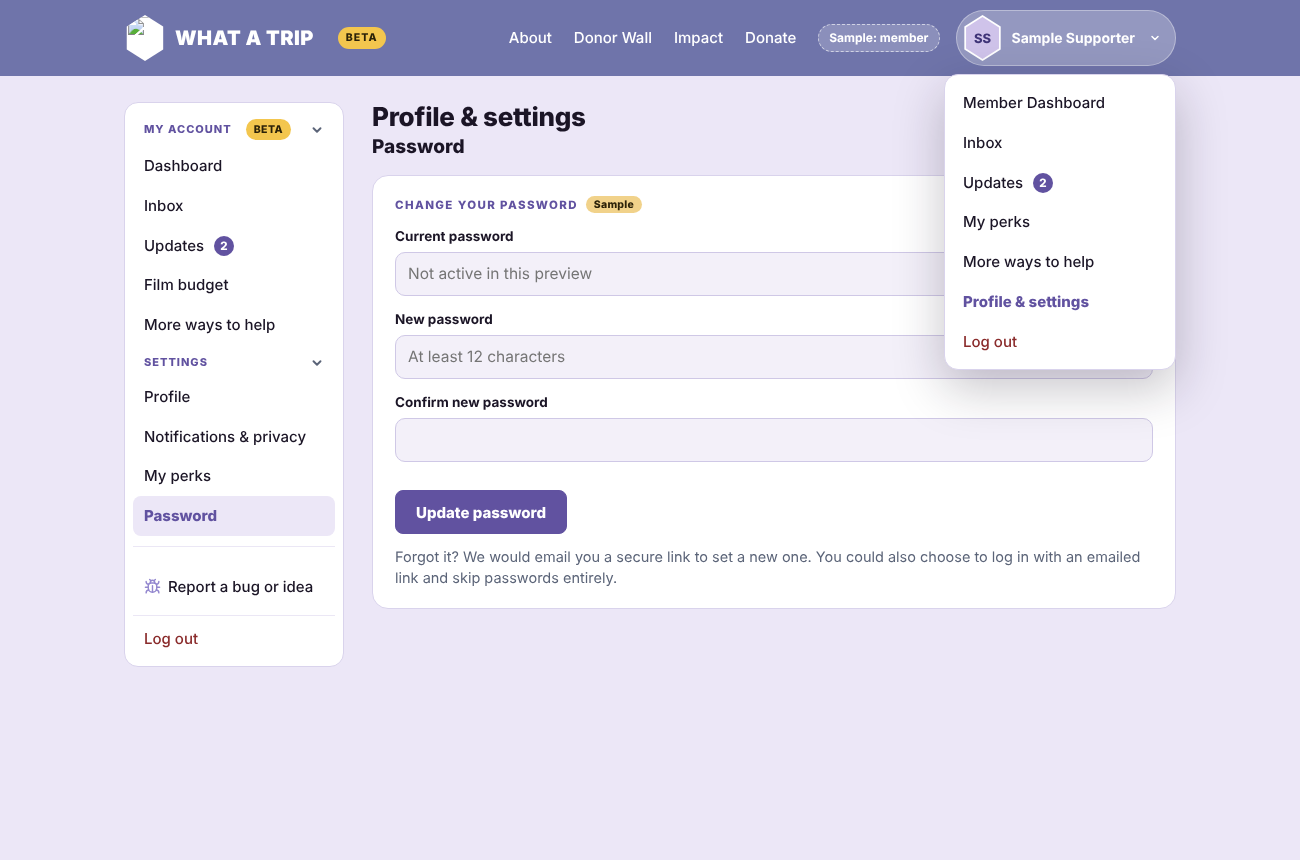
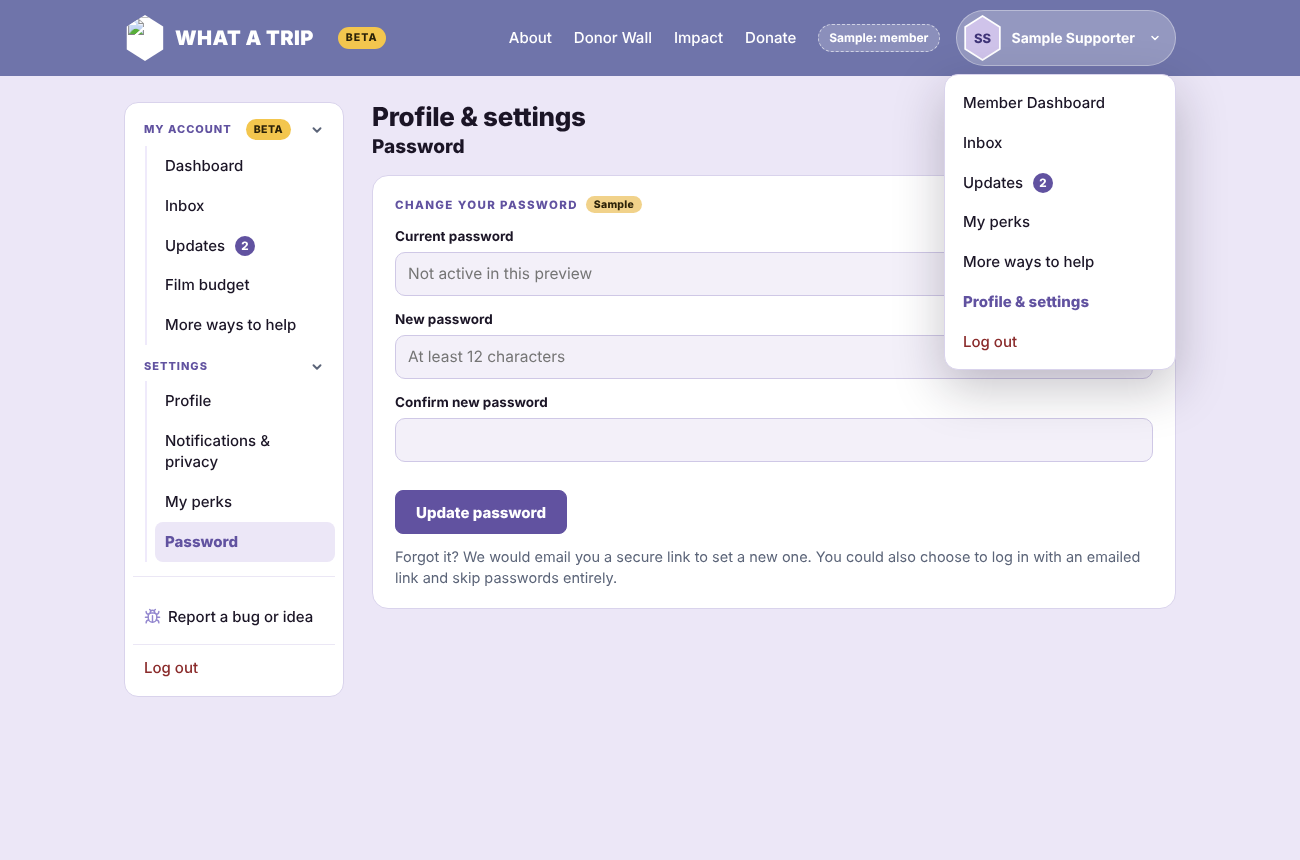
Inbox: Received and Sent tabs; side menu items indented under their section
Claude-Session: https://claude.ai/code/session_01B4g6Jr5SafogaXZoJmXf7b

Changed region(s): [[0.0923, 0.2721, 0.2462, 0.6349], [0.0923, 0.6651, 0.2462, 0.786], [0.1231, 0.1814, 0.1846, 0.2419]]

diff --git a/home-page/home-block.html b/home-page/home-block.html
@@ -1881,6 +1881,11 @@ html.wath-framed :is(#wath,#wath-top) .pvb{display:none}
 .mov .mfbar>div>span{font-size:12px;font-weight:800;letter-spacing:.06em;text-transform:uppercase;color:#8a849a;min-width:92px}
 .mov .mfbar select{font:inherit;font-size:13.5px;padding:6px 9px;border:1px solid #d9d1ee;border-radius:9px;background:#fff}
 .mov .mchip.sm{padding:5px 11px;font-size:13px}
+@media(min-width:801px){#wath-top .msgb{margin:0 0 4px 12px;padding-left:8px;border-left:2px solid #efeafb}#wath-top .msgb .msn{padding-left:10px}}
+.mov .inbtabs{display:flex;gap:6px;margin:0 0 10px}
+.mov .inbtabs button{display:inline-flex!important;align-items:center;gap:7px;border:1px solid #ddd5f0!important;background:#fff;border-radius:999px!important;padding:7px 16px!important;font:inherit;font-size:14.5px;font-weight:700;color:#3a3245;cursor:pointer}
+.mov .inbtabs button.on{background:#6152a0!important;border-color:#6152a0!important;color:#fff!important}
+.mov .inbtabs .inbn{font-size:12px;font-weight:700;opacity:.7}
 .mov .adots{position:relative;display:inline-flex}
 .mov .amng button.adotb{width:36px!important;height:36px!important;min-width:36px;box-sizing:border-box;flex:none;border-radius:50%;border:1px solid rgba(27,21,38,.16);background:#fff;color:#1b1526;display:inline-flex;align-items:center;justify-content:center;cursor:pointer;padding:0}
 .mov .amng button.adotb:hover{background:#f1eef8}
@@ -2940,7 +2945,7 @@ function inbWelcome(){var t=memTotal()+(TG&&TG.cl?TG.amt:0),lv=levelFor(t),ch=TG
 function inbCan(){var t=memTotal()+(TG&&TG.cl?TG.amt:0);return t>=25000}
 function memInbox(){inbWelcome();var op=MEM.inbOpen,cw=MEM.inbNew;
   var comp=cw?'<div class="mcard inbc"><span class="mtag">NEW MESSAGE</span><label class="mf"><span>To</span><select data-inbto><option value="team">The What a Trip team</option>'+(inbCan()?'<option value="dir">Nirvan Mullick, Director</option>':'')+'</select></label>'+(inbCan()?'':'<p class="msub" style="margin:-4px 0 10px">From the Made Possible By level ($25K+) you can also write to the director.</p>')+'<label class="mf"><span>Subject</span><input data-inbsub maxlength="120" autocomplete="off"></label><label class="mf"><span>Message</span><textarea data-inbbody rows="5" maxlength="4000"></textarea></label><div class="pfbar"><button class="btn" data-m="inbcancel">Cancel</button><button class="btn pri" data-m="inbsend">Send</button></div></div>':'';
-  return '<div class="mrow" style="margin-bottom:12px"><h2 style="margin:0">Inbox</h2><button class="btn pri" data-m="inbnew">Write to us</button></div>'+comp+'<div class="mcard inbl">'+(INB.length?INB.map(function(m){var o=op===m.id;return '<div class="inbm'+(m.r||m.out?'':' un')+(o?' open':'')+'"><button class="inbh" data-m="inbopen" data-t="'+esc(m.id)+'"><span class="inbd"></span><span class="inbw"><b>'+esc(m.s)+'</b><span>'+(m.out?'To '+esc(m.to):m.f)+' · '+esc(m.d)+'</span></span></button>'+(o?'<div class="inbb">'+m.b+'</div>':'')+'</div>'}).join(''):'<p class="msub">No messages yet.</p>')+'</div><p class="msub">We also email you when a new message arrives, so you know to log in and read it. <span class="asmp">Sample</span></p>'}
+  return '<div class="mrow" style="margin-bottom:12px"><h2 style="margin:0">Inbox</h2><button class="btn pri" data-m="inbnew">Write to us</button></div>'+comp+(function(){var f=MEM.inbF||'in',ni=INB.filter(function(m){return !m.out}).length,no=INB.filter(function(m){return m.out}).length,un=INB.filter(function(m){return !m.out&&!m.r}).length;return '<div class="inbtabs" role="tablist" aria-label="Messages"><button role="tab" aria-selected="'+(f==='in')+'" class="'+(f==='in'?'on':'')+'" data-m="inbf" data-t="in">Received'+(un?' <span class="mbdg">'+un+'</span>':' <span class="inbn">'+ni+'</span>')+'</button><button role="tab" aria-selected="'+(f==='out')+'" class="'+(f==='out'?'on':'')+'" data-m="inbf" data-t="out">Sent <span class="inbn">'+no+'</span></button></div>'})()+'<div class="mcard inbl">'+((function(){var f=MEM.inbF||'in';return INB.filter(function(m){return f==='out'?!!m.out:!m.out})})()).map(function(m){var o=op===m.id;return '<div class="inbm'+(m.r||m.out?'':' un')+(o?' open':'')+'"><button class="inbh" data-m="inbopen" data-t="'+esc(m.id)+'"><span class="inbd"></span><span class="inbw"><b>'+esc(m.s)+'</b><span>'+(m.out?'To '+esc(m.to):m.f)+' · '+esc(m.d)+'</span></span></button>'+(o?'<div class="inbb">'+m.b+'</div>':'')+'</div>'}).join('')+(((function(){var f=MEM.inbF||'in';return INB.filter(function(m){return f==='out'?!!m.out:!m.out})})()).length?'':'<p class="msub">'+((MEM.inbF||'in')==='out'?'Messages you send to the team show here.':'No messages yet.')+'</p>')+'</div><p class="msub">We also email you when a new message arrives, so you know to log in and read it. <span class="asmp">Sample</span></p>'}
 function memTotal(){return MEM.me.gifts.reduce(function(t,g){return t+g[1]},0)}
 function memNext(){var t=memTotal(),n=null;LEVELS.forEach(function(l){if(!n&&l.min>t)n=l});return n}
 function closeMember(){var o=T.querySelector('.mov');if(o){o.parentNode.removeChild(o);document.documentElement.classList.remove('wath-noscroll')}}
@@ -3158,9 +3163,9 @@ function renderMember(){setTimeout(mtopAlign,0);var o=T.querySelector('.mov');if
   var nv=o.querySelector('.msnav'),non=nv&&nv.querySelector('.msn.on');if(non&&nv.scrollWidth>nv.clientWidth+2)nv.scrollLeft=Math.max(0,non.offsetLeft-nv.offsetLeft-14);
   if(keep){var s2=o.querySelector('.mbody');if(s2)s2.scrollTop=y;if(vals)[].forEach.call(o.querySelectorAll(sel),function(i,n){if(n<vals.length&&!i.disabled)i.value=vals[n]})}}
 function memSecGo(){var o=T.querySelector('.mov');if(!o)return;var sc=o.querySelector('.mbody'),el=o.querySelector('.msec[data-sec="'+MEM.tab+'"]');if(!sc)return;sc.scrollTop=(el&&el.previousElementSibling)?Math.max(0,el.offsetTop-sc.offsetTop-10):0}
-function memClick(e){var mc=e.target.closest&&e.target.closest('[data-mscl]');if(mc){var id=mc.getAttribute('data-mscl'),CL=MSCL();CL[id]=!CL[id];try{localStorage.setItem('wath:mscl',JSON.stringify(CL))}catch(x){}mc.setAttribute('aria-expanded',!CL[id]);var gb=mc.parentNode.querySelector('.msgb[data-g="'+id+'"]');if(gb)gb.classList.toggle('cl',!!CL[id]);return}var mw=T.querySelector('.mov .mmw');if(mw&&!(e.target.closest&&e.target.closest('[data-m=menu]'))){mw.classList.remove('open')}var ta=e.target.closest&&e.target.closest('[data-a]');if(ta){admClick(ta);return}var t=e.target.closest&&e.target.closest('[data-m]');if(!t)return;var a=t.getAttribute('data-m'),v=t.getAttribute('data-t');if(accClick(a,t))return;if(a==='monthgo'){giveMonthly(+v||MEM.monthly||25);return}
+function memClick(e){var mc=e.target.closest&&e.target.closest('[data-mscl]');if(mc){var id=mc.getAttribute('data-mscl'),CL=MSCL();CL[id]=!CL[id];try{localStorage.setItem('wath:mscl',JSON.stringify(CL))}catch(x){}mc.setAttribute('aria-expanded',!CL[id]);var gb=mc.parentNode.querySelector('.msgb[data-g="'+id+'"]');if(gb)gb.classList.toggle('cl',!!CL[id]);return}var mw=T.querySelector('.mov .mmw');if(mw&&!(e.target.closest&&e.target.closest('[data-m=menu]'))){mw.classList.remove('open')}var ta=e.target.closest&&e.target.closest('[data-a]');if(ta){admClick(ta);return}var t=e.target.closest&&e.target.closest('[data-m]');if(!t)return;var a=t.getAttribute('data-m'),v=t.getAttribute('data-t');if(accClick(a,t))return;if(a==='inbf'){MEM.inbF=v;MEM.inbOpen='';renderMember();return}if(a==='monthgo'){giveMonthly(+v||MEM.monthly||25);return}
   if(a==='close')closeMember();else if(a==='role'){MEM.role=MEM.role==='admin'?'member':'admin';if(MEM.role!=='admin')ADM.on=false;renderMember();try{socKeep();renderUpdates();renderLevels()}catch(x){}toast(MEM.role==='admin'?'Sample: now previewing an admin login. Only the team sees Site Management.':'Sample: now previewing a member login. Members never see Site Management.')}else if(a==='login'){memSetIn(true);MEM.ob=memSeen()?-1:0;renderMember()}else if(a==='menu'){if(!(e.target.closest&&e.target.closest('.marr'))){ADM.on=false;MEM.tab='home';renderMember();memSecGo();return}var w=t.parentNode,op=HOVERS?true:!w.classList.contains('open');w.classList.toggle('open',op);t.setAttribute('aria-expanded',op?'true':'false')}else if(a==='tab'){ADM.on=false;MEM.tab=v;renderMember();memSecGo()}else if(a==='toast')toast(v);
-  else if(a==='inbopen'){MEM.inbOpen=MEM.inbOpen===v?null:v;INB.forEach(function(m){if(m.id===v)m.r=1});inbSave();renderMember();try{memChip()}catch(x){}}else if(a==='inbnew'){MEM.inbNew=1;renderMember()}else if(a==='inbcancel'){MEM.inbNew=0;renderMember()}else if(a==='inbsend'){var ov=T.querySelector('.mov'),su=(ov.querySelector('[data-inbsub]').value||'').trim(),bo=(ov.querySelector('[data-inbbody]').value||'').trim(),to=ov.querySelector('[data-inbto]').value;if(!bo){toast('Please write a message.');return}INB.unshift({id:'o'+Date.now(),out:1,to:to==='dir'?'Nirvan Mullick, Director':'The What a Trip team',s:su||'(No subject)',b:'<p>'+esc(bo).replace(/\n/g,'<br>')+'</p>',d:inbNow(),r:1});inbSave();MEM.inbNew=0;renderMember();toast('Sent. We’ll reply here and by email.'+(LIVE?'':' (Sample: saved on this computer only.)'))}
+  else if(a==='inbopen'){MEM.inbOpen=MEM.inbOpen===v?null:v;INB.forEach(function(m){if(m.id===v)m.r=1});inbSave();renderMember();try{memChip()}catch(x){}}else if(a==='inbnew'){MEM.inbNew=1;renderMember()}else if(a==='inbcancel'){MEM.inbNew=0;renderMember()}else if(a==='inbsend'){var ov=T.querySelector('.mov'),su=(ov.querySelector('[data-inbsub]').value||'').trim(),bo=(ov.querySelector('[data-inbbody]').value||'').trim(),to=ov.querySelector('[data-inbto]').value;if(!bo){toast('Please write a message.');return}INB.unshift({id:'o'+Date.now(),out:1,to:to==='dir'?'Nirvan Mullick, Director':'The What a Trip team',s:su||'(No subject)',b:'<p>'+esc(bo).replace(/\n/g,'<br>')+'</p>',d:inbNow(),r:1});inbSave();MEM.inbNew=0;MEM.inbF='out';renderMember();toast('Sent. We’ll reply here and by email.'+(LIVE?'':' (Sample: saved on this computer only.)'))}
   else if(a==='smsend'){var o2=T.querySelector('.mov'),to2=o2.querySelector('[data-smto]').value,sb=(o2.querySelector('[data-smsub]').value||'').trim(),bd=(o2.querySelector('[data-smbody]').value||'').trim();if(!bd){toast('Please write a message.');return}if(/\(you\)$/.test(to2)){inbAdd(null,sb||'A message from the team','<p>'+esc(bd).replace(/\n/g,'<br>')+'</p>');toast('Sent to your Inbox. (Sample.)')}else toast('Sample only: this would go to '+to2+'’s Inbox and email.');o2.querySelector('[data-smbody]').value='';o2.querySelector('[data-smsub]').value=''}
   else if(a==='pfsv'){PF.sv=v;renderMember()}
   else if(a==='pfint'){var ik=v,is=PF.st[ik]=PF.st[ik]||{f:{}};is.int=!is.int;is.st=is.int?'sent':'todo';is.at=new Date().toLocaleDateString('en-US',{month:'short',day:'numeric'});PF.open=ik;pfSave();renderMember();toast(is.int?'Thanks! We’ll contact you about next steps.'+(LIVE?'':' (Sample: saved on this computer only.)'):'Unchecked.')}

diff --git a/home-page/src/app.js b/home-page/src/app.js
@@ -988,7 +988,7 @@ function inbWelcome(){var t=memTotal()+(TG&&TG.cl?TG.amt:0),lv=levelFor(t),ch=TG
 function inbCan(){var t=memTotal()+(TG&&TG.cl?TG.amt:0);return t>=25000}
 function memInbox(){inbWelcome();var op=MEM.inbOpen,cw=MEM.inbNew;
   var comp=cw?'<div class="mcard inbc"><span class="mtag">NEW MESSAGE</span><label class="mf"><span>To</span><select data-inbto><option value="team">The What a Trip team</option>'+(inbCan()?'<option value="dir">Nirvan Mullick, Director</option>':'')+'</select></label>'+(inbCan()?'':'<p class="msub" style="margin:-4px 0 10px">From the Made Possible By level ($25K+) you can also write to the director.</p>')+'<label class="mf"><span>Subject</span><input data-inbsub maxlength="120" autocomplete="off"></label><label class="mf"><span>Message</span><textarea data-inbbody rows="5" maxlength="4000"></textarea></label><div class="pfbar"><button class="btn" data-m="inbcancel">Cancel</button><button class="btn pri" data-m="inbsend">Send</button></div></div>':'';
-  return '<div class="mrow" style="margin-bottom:12px"><h2 style="margin:0">Inbox</h2><button class="btn pri" data-m="inbnew">Write to us</button></div>'+comp+'<div class="mcard inbl">'+(INB.length?INB.map(function(m){var o=op===m.id;return '<div class="inbm'+(m.r||m.out?'':' un')+(o?' open':'')+'"><button class="inbh" data-m="inbopen" data-t="'+esc(m.id)+'"><span class="inbd"></span><span class="inbw"><b>'+esc(m.s)+'</b><span>'+(m.out?'To '+esc(m.to):m.f)+' · '+esc(m.d)+'</span></span></button>'+(o?'<div class="inbb">'+m.b+'</div>':'')+'</div>'}).join(''):'<p class="msub">No messages yet.</p>')+'</div><p class="msub">We also email you when a new message arrives, so you know to log in and read it. <span class="asmp">Sample</span></p>'}
+  return '<div class="mrow" style="margin-bottom:12px"><h2 style="margin:0">Inbox</h2><button class="btn pri" data-m="inbnew">Write to us</button></div>'+comp+(function(){var f=MEM.inbF||'in',ni=INB.filter(function(m){return !m.out}).length,no=INB.filter(function(m){return m.out}).length,un=INB.filter(function(m){return !m.out&&!m.r}).length;return '<div class="inbtabs" role="tablist" aria-label="Messages"><button role="tab" aria-selected="'+(f==='in')+'" class="'+(f==='in'?'on':'')+'" data-m="inbf" data-t="in">Received'+(un?' <span class="mbdg">'+un+'</span>':' <span class="inbn">'+ni+'</span>')+'</button><button role="tab" aria-selected="'+(f==='out')+'" class="'+(f==='out'?'on':'')+'" data-m="inbf" data-t="out">Sent <span class="inbn">'+no+'</span></button></div>'})()+'<div class="mcard inbl">'+((function(){var f=MEM.inbF||'in';return INB.filter(function(m){return f==='out'?!!m.out:!m.out})})()).map(function(m){var o=op===m.id;return '<div class="inbm'+(m.r||m.out?'':' un')+(o?' open':'')+'"><button class="inbh" data-m="inbopen" data-t="'+esc(m.id)+'"><span class="inbd"></span><span class="inbw"><b>'+esc(m.s)+'</b><span>'+(m.out?'To '+esc(m.to):m.f)+' · '+esc(m.d)+'</span></span></button>'+(o?'<div class="inbb">'+m.b+'</div>':'')+'</div>'}).join('')+(((function(){var f=MEM.inbF||'in';return INB.filter(function(m){return f==='out'?!!m.out:!m.out})})()).length?'':'<p class="msub">'+((MEM.inbF||'in')==='out'?'Messages you send to the team show here.':'No messages yet.')+'</p>')+'</div><p class="msub">We also email you when a new message arrives, so you know to log in and read it. <span class="asmp">Sample</span></p>'}
 function memTotal(){return MEM.me.gifts.reduce(function(t,g){return t+g[1]},0)}
 function memNext(){var t=memTotal(),n=null;LEVELS.forEach(function(l){if(!n&&l.min>t)n=l});return n}
 function closeMember(){var o=T.querySelector('.mov');if(o){o.parentNode.removeChild(o);document.documentElement.classList.remove('wath-noscroll')}}
@@ -1206,9 +1206,9 @@ function renderMember(){setTimeout(mtopAlign,0);var o=T.querySelector('.mov');if
   var nv=o.querySelector('.msnav'),non=nv&&nv.querySelector('.msn.on');if(non&&nv.scrollWidth>nv.clientWidth+2)nv.scrollLeft=Math.max(0,non.offsetLeft-nv.offsetLeft-14);
   if(keep){var s2=o.querySelector('.mbody');if(s2)s2.scrollTop=y;if(vals)[].forEach.call(o.querySelectorAll(sel),function(i,n){if(n<vals.length&&!i.disabled)i.value=vals[n]})}}
 function memSecGo(){var o=T.querySelector('.mov');if(!o)return;var sc=o.querySelector('.mbody'),el=o.querySelector('.msec[data-sec="'+MEM.tab+'"]');if(!sc)return;sc.scrollTop=(el&&el.previousElementSibling)?Math.max(0,el.offsetTop-sc.offsetTop-10):0}
-function memClick(e){var mc=e.target.closest&&e.target.closest('[data-mscl]');if(mc){var id=mc.getAttribute('data-mscl'),CL=MSCL();CL[id]=!CL[id];try{localStorage.setItem('wath:mscl',JSON.stringify(CL))}catch(x){}mc.setAttribute('aria-expanded',!CL[id]);var gb=mc.parentNode.querySelector('.msgb[data-g="'+id+'"]');if(gb)gb.classList.toggle('cl',!!CL[id]);return}var mw=T.querySelector('.mov .mmw');if(mw&&!(e.target.closest&&e.target.closest('[data-m=menu]'))){mw.classList.remove('open')}var ta=e.target.closest&&e.target.closest('[data-a]');if(ta){admClick(ta);return}var t=e.target.closest&&e.target.closest('[data-m]');if(!t)return;var a=t.getAttribute('data-m'),v=t.getAttribute('data-t');if(accClick(a,t))return;if(a==='monthgo'){giveMonthly(+v||MEM.monthly||25);return}
+function memClick(e){var mc=e.target.closest&&e.target.closest('[data-mscl]');if(mc){var id=mc.getAttribute('data-mscl'),CL=MSCL();CL[id]=!CL[id];try{localStorage.setItem('wath:mscl',JSON.stringify(CL))}catch(x){}mc.setAttribute('aria-expanded',!CL[id]);var gb=mc.parentNode.querySelector('.msgb[data-g="'+id+'"]');if(gb)gb.classList.toggle('cl',!!CL[id]);return}var mw=T.querySelector('.mov .mmw');if(mw&&!(e.target.closest&&e.target.closest('[data-m=menu]'))){mw.classList.remove('open')}var ta=e.target.closest&&e.target.closest('[data-a]');if(ta){admClick(ta);return}var t=e.target.closest&&e.target.closest('[data-m]');if(!t)return;var a=t.getAttribute('data-m'),v=t.getAttribute('data-t');if(accClick(a,t))return;if(a==='inbf'){MEM.inbF=v;MEM.inbOpen='';renderMember();return}if(a==='monthgo'){giveMonthly(+v||MEM.monthly||25);return}
   if(a==='close')closeMember();else if(a==='role'){MEM.role=MEM.role==='admin'?'member':'admin';if(MEM.role!=='admin')ADM.on=false;renderMember();try{socKeep();renderUpdates();renderLevels()}catch(x){}toast(MEM.role==='admin'?'Sample: now previewing an admin login. Only the team sees Site Management.':'Sample: now previewing a member login. Members never see Site Management.')}else if(a==='login'){memSetIn(true);MEM.ob=memSeen()?-1:0;renderMember()}else if(a==='menu'){if(!(e.target.closest&&e.target.closest('.marr'))){ADM.on=false;MEM.tab='home';renderMember();memSecGo();return}var w=t.parentNode,op=HOVERS?true:!w.classList.contains('open');w.classList.toggle('open',op);t.setAttribute('aria-expanded',op?'true':'false')}else if(a==='tab'){ADM.on=false;MEM.tab=v;renderMember();memSecGo()}else if(a==='toast')toast(v);
-  else if(a==='inbopen'){MEM.inbOpen=MEM.inbOpen===v?null:v;INB.forEach(function(m){if(m.id===v)m.r=1});inbSave();renderMember();try{memChip()}catch(x){}}else if(a==='inbnew'){MEM.inbNew=1;renderMember()}else if(a==='inbcancel'){MEM.inbNew=0;renderMember()}else if(a==='inbsend'){var ov=T.querySelector('.mov'),su=(ov.querySelector('[data-inbsub]').value||'').trim(),bo=(ov.querySelector('[data-inbbody]').value||'').trim(),to=ov.querySelector('[data-inbto]').value;if(!bo){toast('Please write a message.');return}INB.unshift({id:'o'+Date.now(),out:1,to:to==='dir'?'Nirvan Mullick, Director':'The What a Trip team',s:su||'(No subject)',b:'<p>'+esc(bo).replace(/\n/g,'<br>')+'</p>',d:inbNow(),r:1});inbSave();MEM.inbNew=0;renderMember();toast('Sent. We’ll reply here and by email.'+(LIVE?'':' (Sample: saved on this computer only.)'))}
+  else if(a==='inbopen'){MEM.inbOpen=MEM.inbOpen===v?null:v;INB.forEach(function(m){if(m.id===v)m.r=1});inbSave();renderMember();try{memChip()}catch(x){}}else if(a==='inbnew'){MEM.inbNew=1;renderMember()}else if(a==='inbcancel'){MEM.inbNew=0;renderMember()}else if(a==='inbsend'){var ov=T.querySelector('.mov'),su=(ov.querySelector('[data-inbsub]').value||'').trim(),bo=(ov.querySelector('[data-inbbody]').value||'').trim(),to=ov.querySelector('[data-inbto]').value;if(!bo){toast('Please write a message.');return}INB.unshift({id:'o'+Date.now(),out:1,to:to==='dir'?'Nirvan Mullick, Director':'The What a Trip team',s:su||'(No subject)',b:'<p>'+esc(bo).replace(/\n/g,'<br>')+'</p>',d:inbNow(),r:1});inbSave();MEM.inbNew=0;MEM.inbF='out';renderMember();toast('Sent. We’ll reply here and by email.'+(LIVE?'':' (Sample: saved on this computer only.)'))}
   else if(a==='smsend'){var o2=T.querySelector('.mov'),to2=o2.querySelector('[data-smto]').value,sb=(o2.querySelector('[data-smsub]').value||'').trim(),bd=(o2.querySelector('[data-smbody]').value||'').trim();if(!bd){toast('Please write a message.');return}if(/\(you\)$/.test(to2)){inbAdd(null,sb||'A message from the team','<p>'+esc(bd).replace(/\n/g,'<br>')+'</p>');toast('Sent to your Inbox. (Sample.)')}else toast('Sample only: this would go to '+to2+'’s Inbox and email.');o2.querySelector('[data-smbody]').value='';o2.querySelector('[data-smsub]').value=''}
   else if(a==='pfsv'){PF.sv=v;renderMember()}
   else if(a==='pfint'){var ik=v,is=PF.st[ik]=PF.st[ik]||{f:{}};is.int=!is.int;is.st=is.int?'sent':'todo';is.at=new Date().toLocaleDateString('en-US',{month:'short',day:'numeric'});PF.open=ik;pfSave();renderMember();toast(is.int?'Thanks! We’ll contact you about next steps.'+(LIVE?'':' (Sample: saved on this computer only.)'):'Unchecked.')}

diff --git a/home-page/src/build.py b/home-page/src/build.py
@@ -1916,6 +1916,11 @@ extra+="""
 .mov .mfbar>div>span{font-size:12px;font-weight:800;letter-spacing:.06em;text-transform:uppercase;color:#8a849a;min-width:92px}
 .mov .mfbar select{font:inherit;font-size:13.5px;padding:6px 9px;border:1px solid #d9d1ee;border-radius:9px;background:#fff}
 .mov .mchip.sm{padding:5px 11px;font-size:13px}
+@media(min-width:801px){#wath-top .msgb{margin:0 0 4px 12px;padding-left:8px;border-left:2px solid #efeafb}#wath-top .msgb .msn{padding-left:10px}}
+.mov .inbtabs{display:flex;gap:6px;margin:0 0 10px}
+.mov .inbtabs button{display:inline-flex!important;align-items:center;gap:7px;border:1px solid #ddd5f0!important;background:#fff;border-radius:999px!important;padding:7px 16px!important;font:inherit;font-size:14.5px;font-weight:700;color:#3a3245;cursor:pointer}
+.mov .inbtabs button.on{background:#6152a0!important;border-color:#6152a0!important;color:#fff!important}
+.mov .inbtabs .inbn{font-size:12px;font-weight:700;opacity:.7}
 .mov .adots{position:relative;display:inline-flex}
 .mov .amng button.adotb{width:36px!important;height:36px!important;min-width:36px;box-sizing:border-box;flex:none;border-radius:50%;border:1px solid rgba(27,21,38,.16);background:#fff;color:#1b1526;display:inline-flex;align-items:center;justify-content:center;cursor:pointer;padding:0}
 .mov .amng button.adotb:hover{background:#f1eef8}
